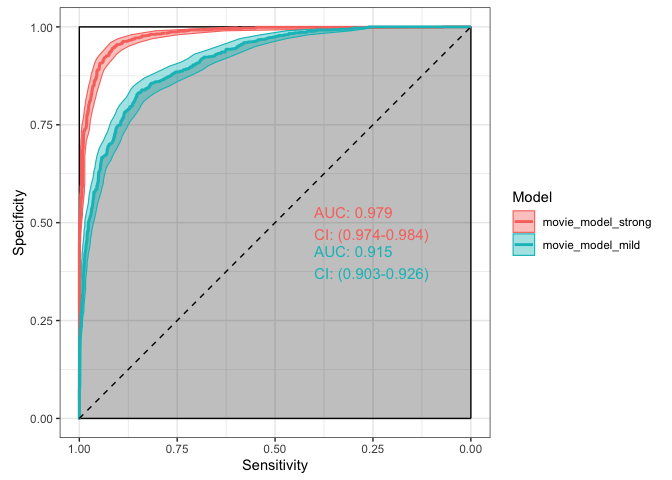
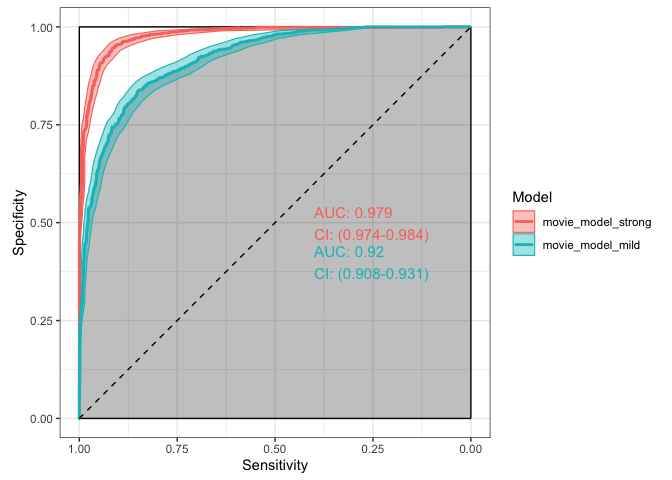
Updated README

diff --git a/README.md b/README.md
@@ -1,11 +1,10 @@
 languagePredictR
 ================
 
-**[PDF manual
-here](https://github.com/nlanderson9/languagePredictR/blob/main/docs/languagePredictR_0.1.0.pdf)**
-
-**[Interactive Demo
-here](https://nlanderson9.shinyapps.io/languagePredictR_shiny_demo/)**
+***[PDF manual
+here](https://github.com/nlanderson9/languagePredictR/blob/main/docs/languagePredictR_0.1.0.pdf)***
+// ***[Interactive Demo
+here](https://nlanderson9.shinyapps.io/languagePredictR_shiny_demo/)***
 
 This package implements the analysis described in [Dobbins & Kantner
 2019](https://www.sciencedirect.com/science/article/abs/pii/S0010027719301611).
@@ -148,7 +147,7 @@ test_output
 ```
 
     ##               model1           model2 model1_auc model2_auc      p_value sig
-    ## 1 movie_model_strong movie_model_mild   0.979426   0.914617 1.775023e-23 ***
+    ## 1 movie_model_strong movie_model_mild   0.979426   0.919701 1.855247e-21 ***
 
 It is !
 
